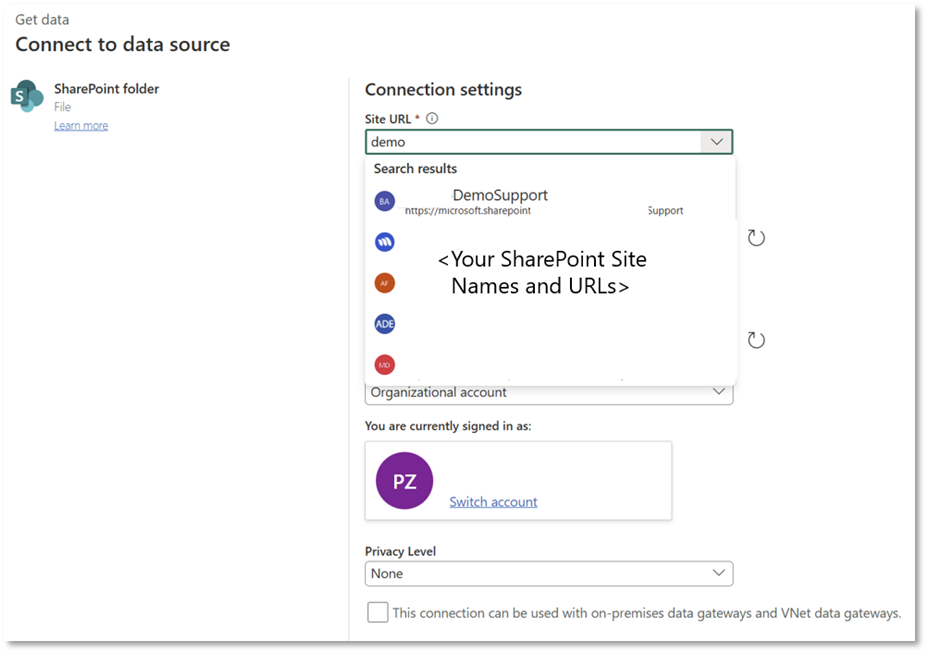
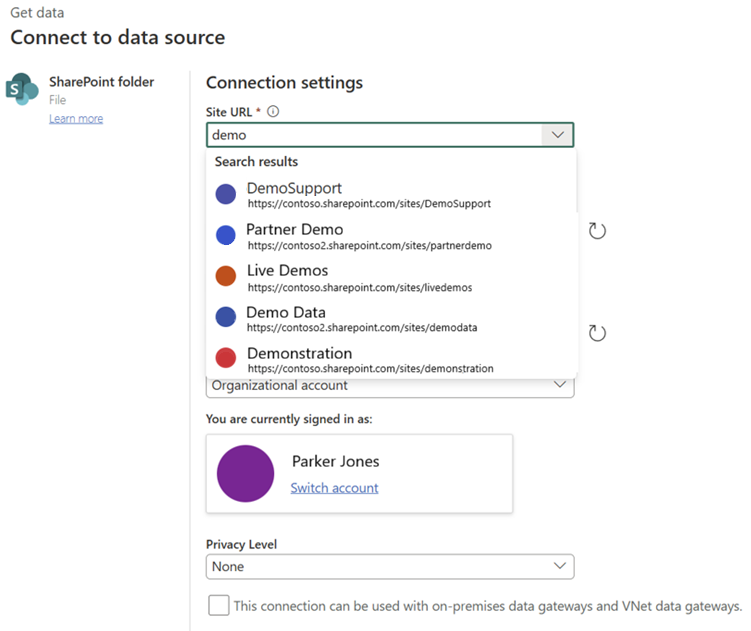
Updating screenshots

diff --git a/powerquery-docs/connectors/includes/sharepoint-site-picker.md b/powerquery-docs/connectors/includes/sharepoint-site-picker.md
@@ -5,17 +5,19 @@ author: xupzhou
 ms.author: whhender
 ms.reviewer: xupzhou
 ms.topic: include
-ms.date: 1/20/2026
+ms.date: 03/04/2026
 ---
-The SharePoint site picker empowers you to quickly find and select the correct SharePoint site during connection creation, without navigating to separate pages to locate and copy URLs manually.
+The SharePoint site picker allows you to find and select the correct SharePoint site during connection creation, without navigating to separate pages to locate and copy URLs manually.
 
 **Simplified site selection**: Instead of copying URLs manually, use the Site URL dropdown to choose from your Recent sites, Favorite sites, and all sites you can access.
-:::image type="content" source="../media/sharepoint-folder/simplified-site-selection.jpg" alt-text="Screenshot of slelecting sharepoint site from SharePoint Site Picker":::
+
+:::image type="content" source="../media/sharepoint-folder/simplified-site-selection.jpg" alt-text="Screenshot of selecting SharePoint site from SharePoint Site Picker":::
 
 **Quick search experience**: Type keywords in the dropdown search box to quickly locate relevant sites. After selecting a site, you can immediately proceed to load data for analysis.
+
 :::image type="content" source="../media/sharepoint-folder/search-site.jpg" alt-text="Screenshot of searching SharePoint site.":::
 
 > [!NOTE]
->- SharePoint site picker is available for SharePoint sources in Dataflow Gen2 and Gen1, Power BI Web modelling, Pipelines, Copy Job, and Lakehouse shortcuts, and as a destination in Dataflow Gen2.
+>- SharePoint site picker is available for SharePoint sources in Dataflow Gen2 and Gen1, Power BI Web modeling, Pipelines, Copy Job, and Lakehouse shortcuts, and as a destination in Dataflow Gen2.
 >- The first time you use the SharePoint site picker, an authentication window appears. Select the same account you're currently signed in with. If you close or ignore the window, the site picker won't work, though you can still manually paste SharePoint site URLs as before.
 >- When using the SharePoint site picker, you could encounter issues searching for sites hosted in regions outside your own geography.
